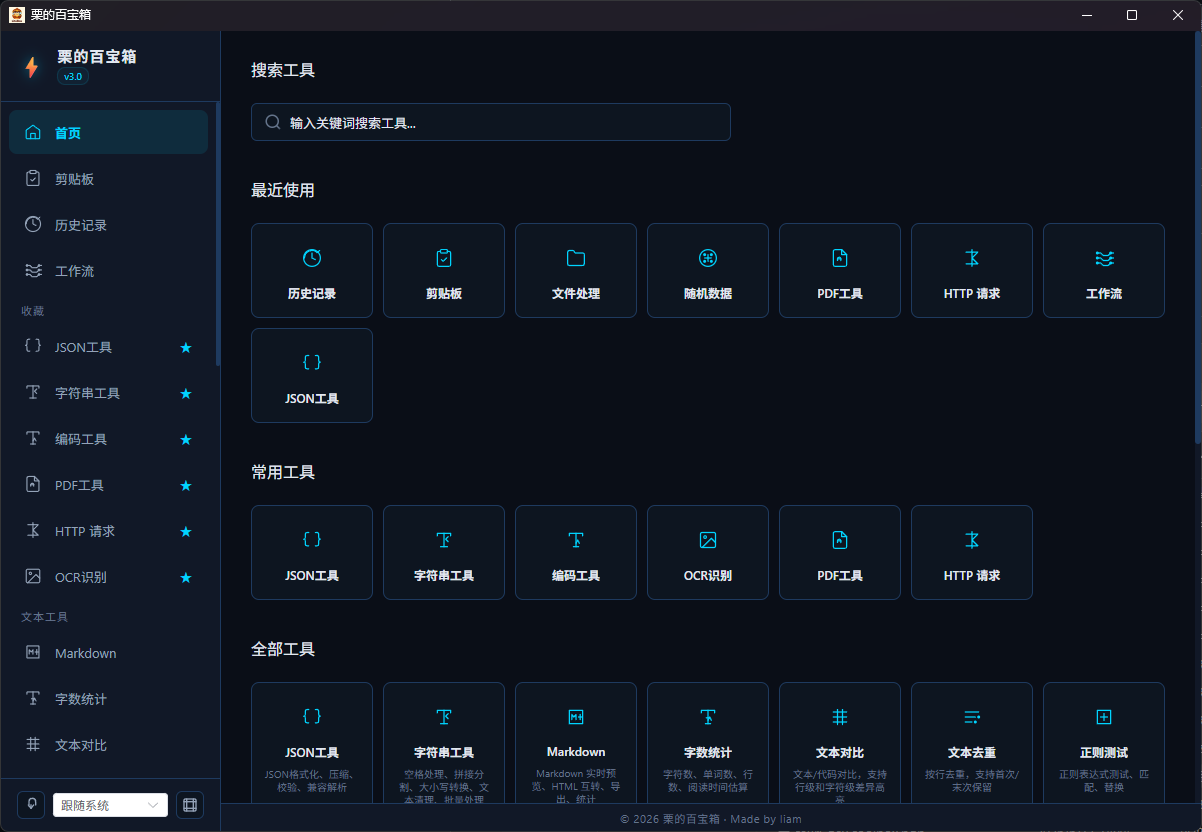
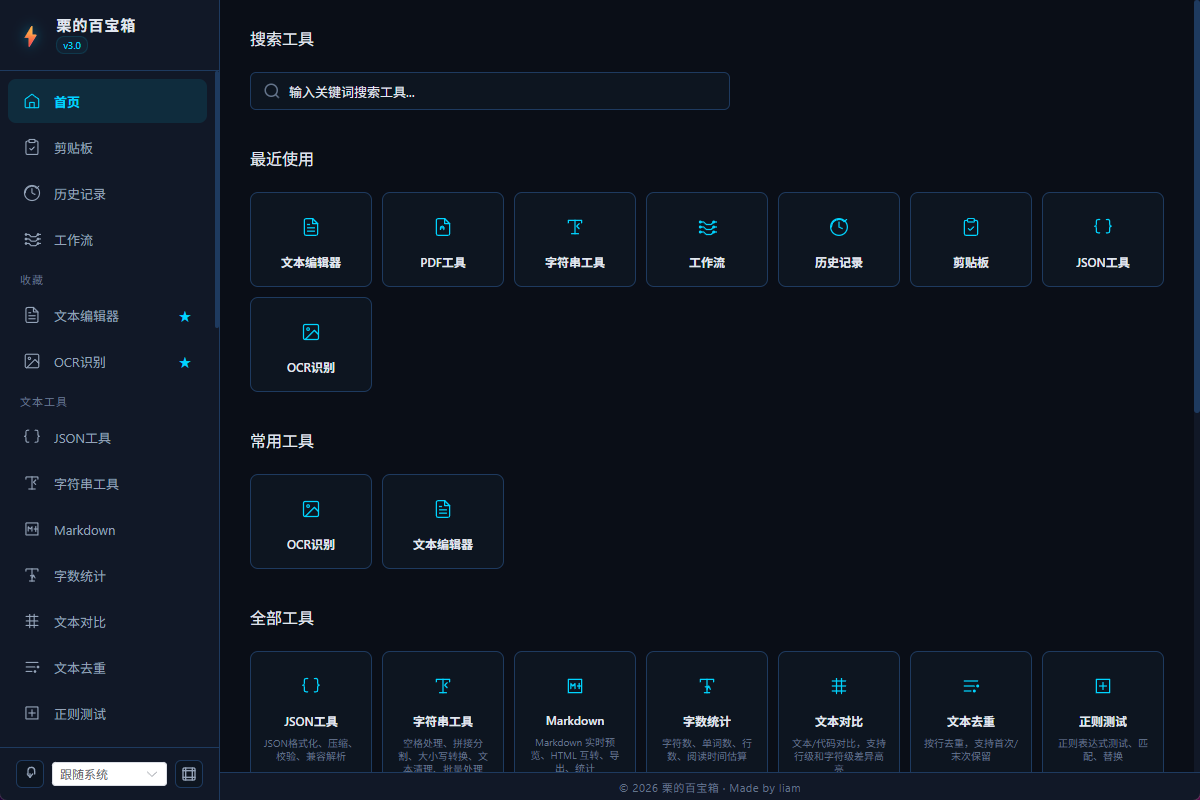
style(CodeMirrorEditor): 为查询DOM元素添加类型声明
优化代码类型安全性，为querySelectorAll调用添加准确的泛型类型参数，移除多余的类型断言

diff --git a/src/components/CodeMirrorEditor.vue b/src/components/CodeMirrorEditor.vue
@@ -133,7 +133,7 @@ const openFind = () => {
   if (view.value) {
     openSearchPanel(view.value)
     // 聚焦查找输入框
-    const inputs = view.value.dom.querySelectorAll('.cm-panel input.cm-textfield')
+    const inputs = view.value.dom.querySelectorAll<HTMLInputElement>('.cm-panel input.cm-textfield')
     if (inputs.length > 0) {
       inputs[0].focus()
       inputs[0].select()
@@ -149,11 +149,11 @@ const openReplace = () => {
   const panel = view.value.dom.querySelector('.cm-panel')
   if (panel) {
     // 显示隐藏的替换区域
-    panel.querySelectorAll('.cm-replace-section').forEach((el) => {
-      (el as HTMLElement).style.display = ''
+    panel.querySelectorAll<HTMLElement>('.cm-replace-section').forEach((el) => {
+      el.style.display = ''
     })
     // 聚焦替换输入框
-    const inputs = panel.querySelectorAll('input.cm-textfield')
+    const inputs = panel.querySelectorAll<HTMLInputElement>('input.cm-textfield')
     if (inputs.length >= 2) {
       inputs[1].focus()
       inputs[1].select()
